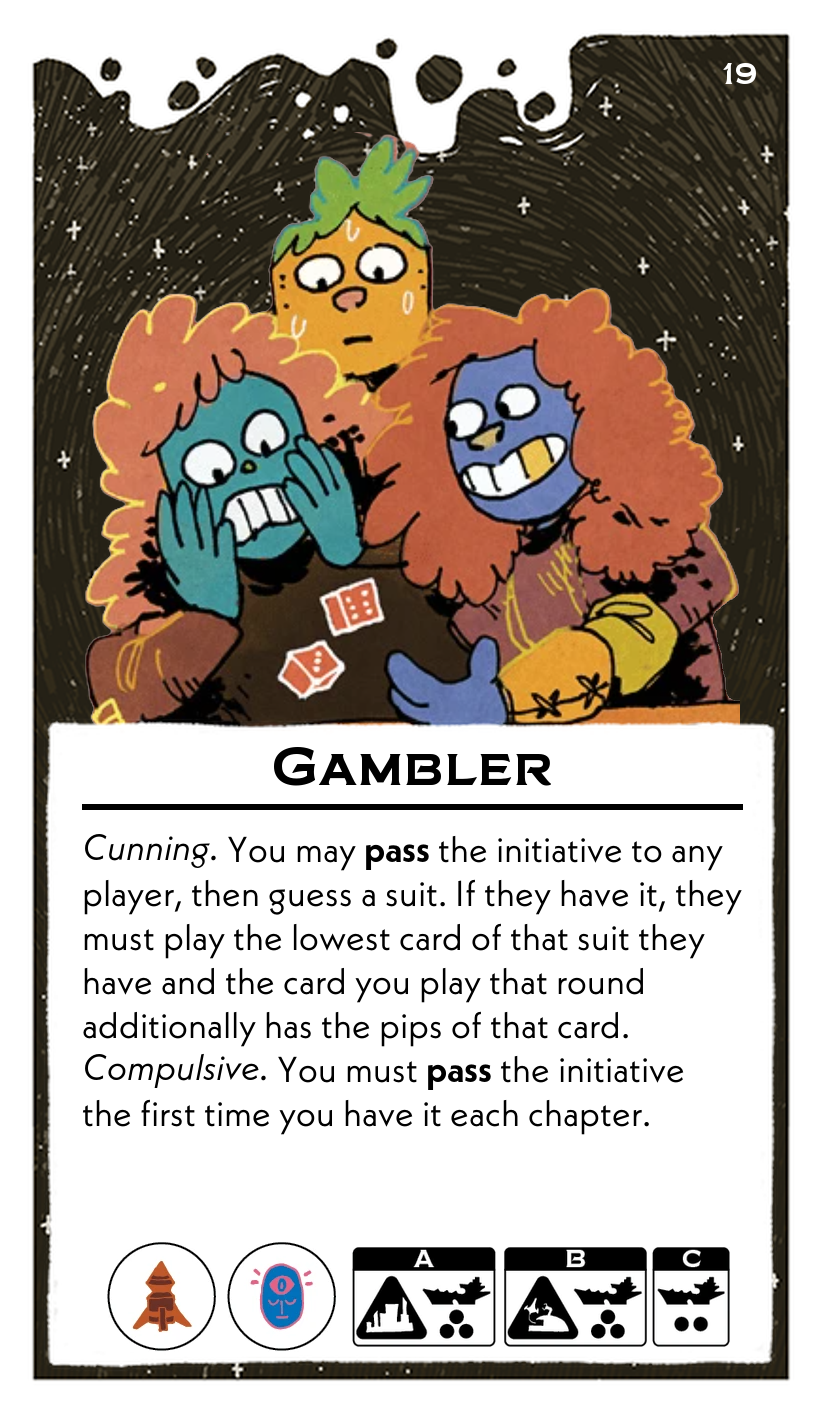
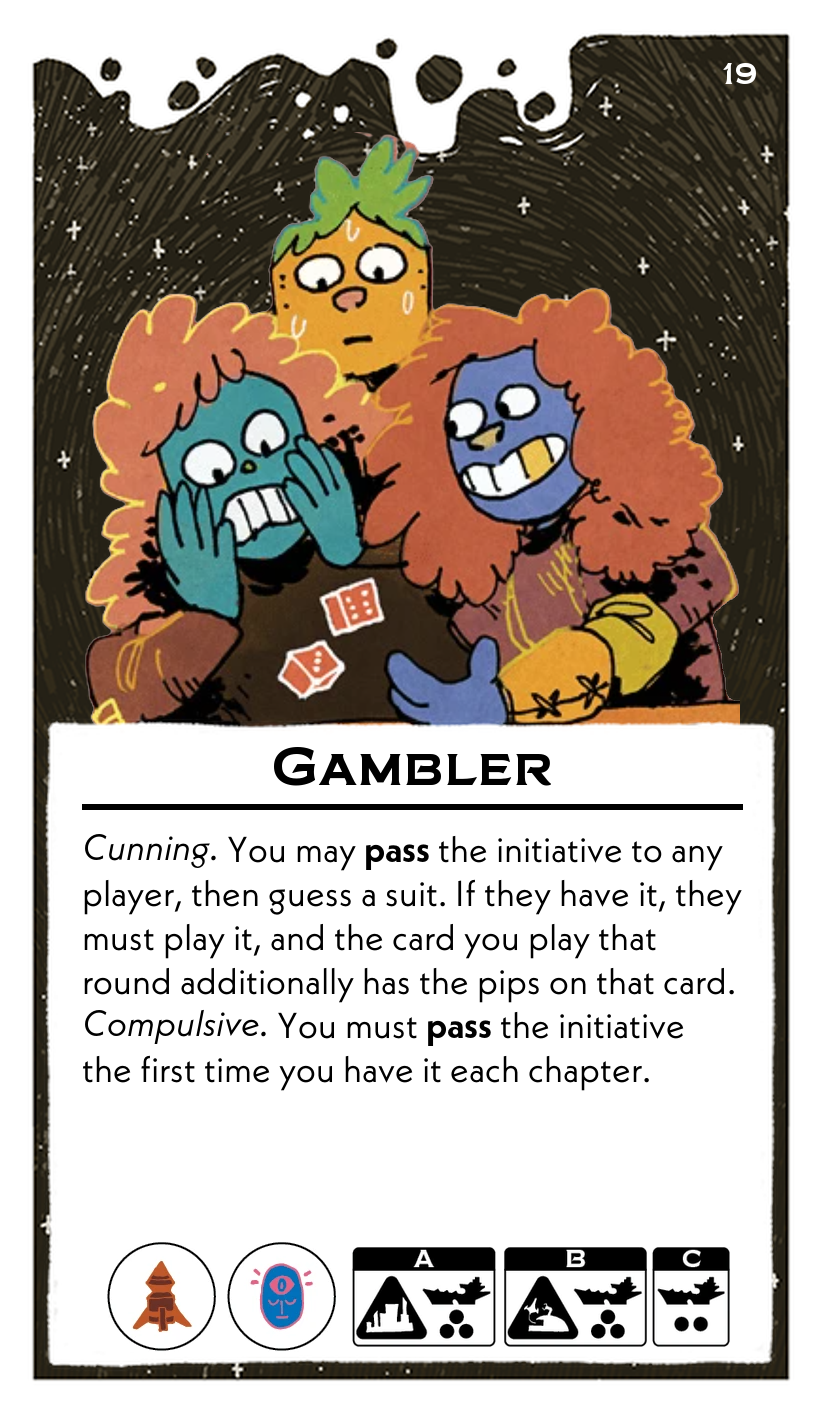
ls3

Changed region(s): [[0.0912, 0.6535, 0.882, 0.8091]]

diff --git a/scripts/leadersFormatted.py b/scripts/leadersFormatted.py
@@ -290,7 +290,7 @@ leaders = [
     {
         "name": "Gambler",
         "abilities": (
-            "*Cunning.* You may **pass** the initiative to any player, then guess a suit. If they have it, they must play the lowest card of that suit they have and the card you play that round additionally has the pips of that card.\n"
+            "*Cunning.* You may **pass** the initiative to any player, then guess a suit. If they have it, they must play it, and the card you play that round additionally has the pips on that card.\n"
             "*Compulsive.* You must **pass** the initiative the first time you have it each chapter."
         ),
         "resources": ["Weapon", "Psionic"],
@@ -812,7 +812,7 @@ leaders = [
     {
         "name": "Courier",
         "abilities": (
-            "*Swift.* At the start of each chapter, in turn order, Rival players place an agent on planets with no Courier pieces until there are 3 on the board. When you **move** into one, return the agent and gain a resource matching that planet.\n"
+            "*Swift.* At the start of each chapter, put 3 agents on planets with no loyal pieces. When you **move** into one, return the agent and gain a resource matching that planet.\n"
             "*Careless.* You cannot gain bonus city Power if you have not returned all agents on the board."
         ),
         "resources": ["Fuel", "Fuel"],
